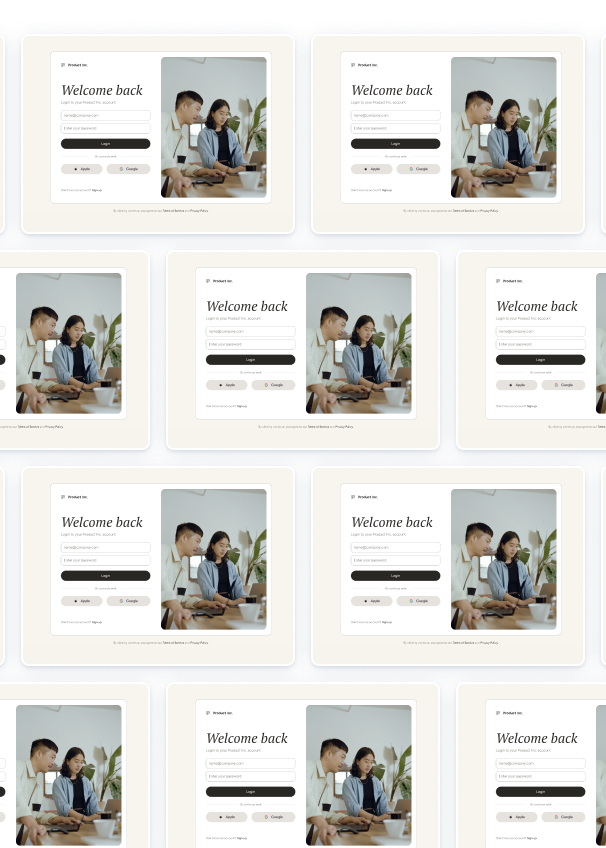
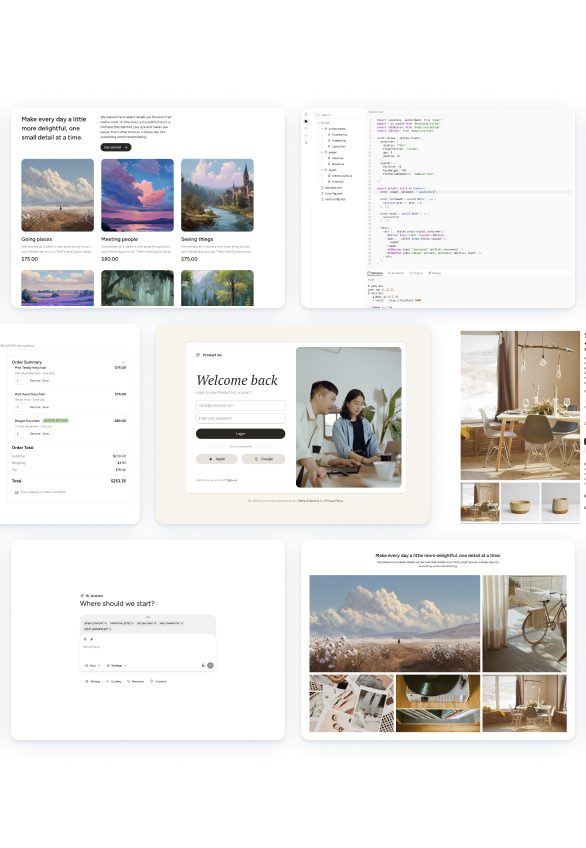
docsite(landing): refresh Templates card image to a varied collage
Swap the tall Templates card image for a scattered collage of different
page templates (gallery, editor, checkout, login, product detail, chat)
and update the alt text. Reads as "many kinds of templates" better than
the previous repeated-login wall.

diff --git a/apps/docsite/src/app/(site)/_landing/FeaturesShowcase.tsx b/apps/docsite/src/app/(site)/_landing/FeaturesShowcase.tsx
@@ -353,7 +353,7 @@ const features: Record<string, Feature> = {
     href: '/templates',
     image: {
       src: '/feature-templates.png',
-      alt: 'A tiled wall of ready-to-use page templates, repeating a Welcome back login template',
+      alt: 'A scattered collage of ready-to-use page templates — product gallery, code editor, checkout summary, login, product detail, and AI chat',
     },
   },
   cli: {